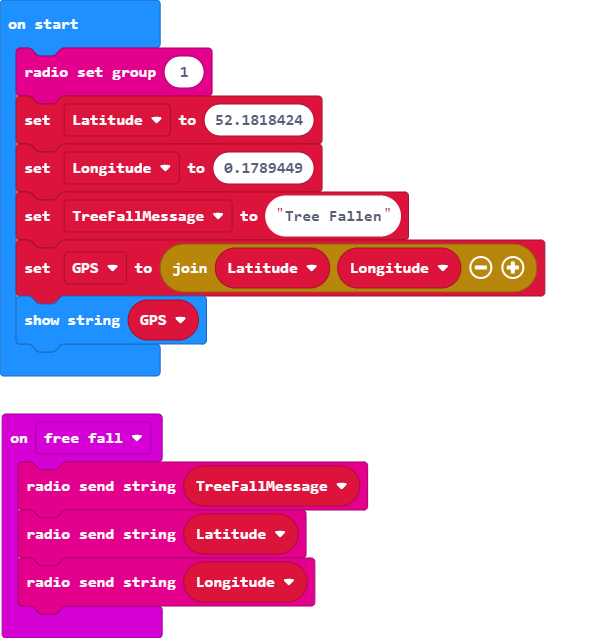
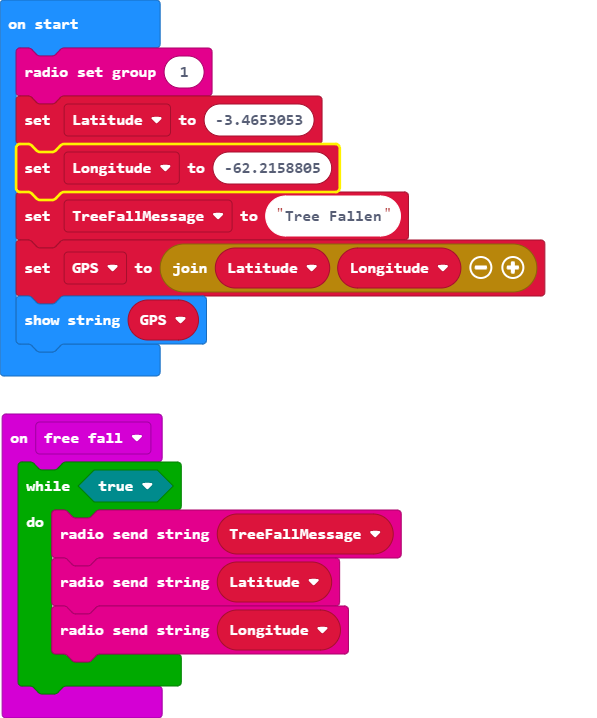
Update main.blocks, main.ts

diff --git a/main.ts b/main.ts
@@ -1,14 +1,16 @@
 input.onGesture(Gesture.FreeFall, function () {
-    radio.sendString(TreeFallMessage)
-    radio.sendString("" + (Latitude))
-    radio.sendString("" + (Longitude))
+    while (true) {
+        radio.sendString(TreeFallMessage)
+        radio.sendString("" + (Latitude))
+        radio.sendString("" + (Longitude))
+    }
 })
 let TreeFallMessage = ""
 let Longitude = 0
 let Latitude = 0
 radio.setGroup(1)
-Latitude = 52.1818424
-Longitude = 0.1789449
+Latitude = -3.4653053
+Longitude = -62.2158805
 TreeFallMessage = "Tree Fallen"
 let GPS = "" + Latitude + Longitude
 basic.showString(GPS)
